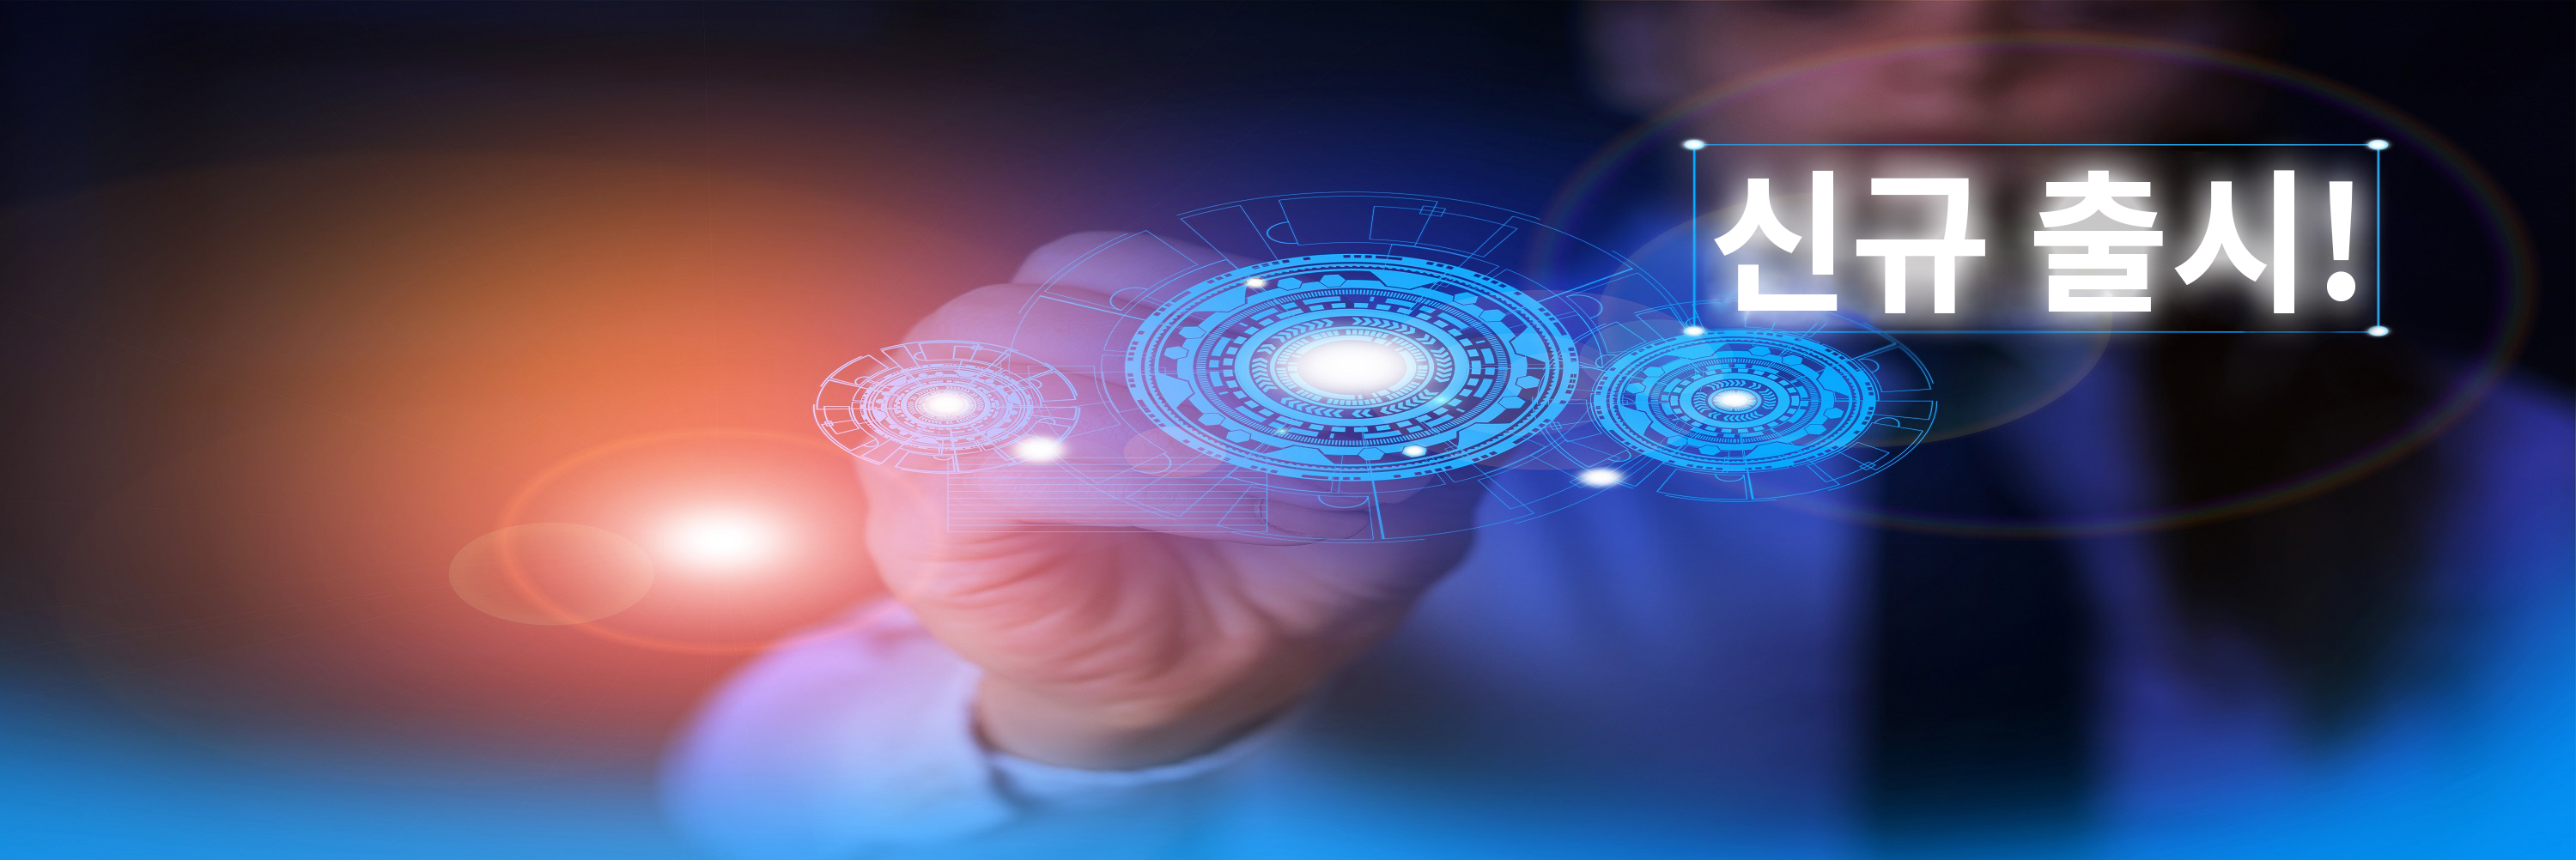
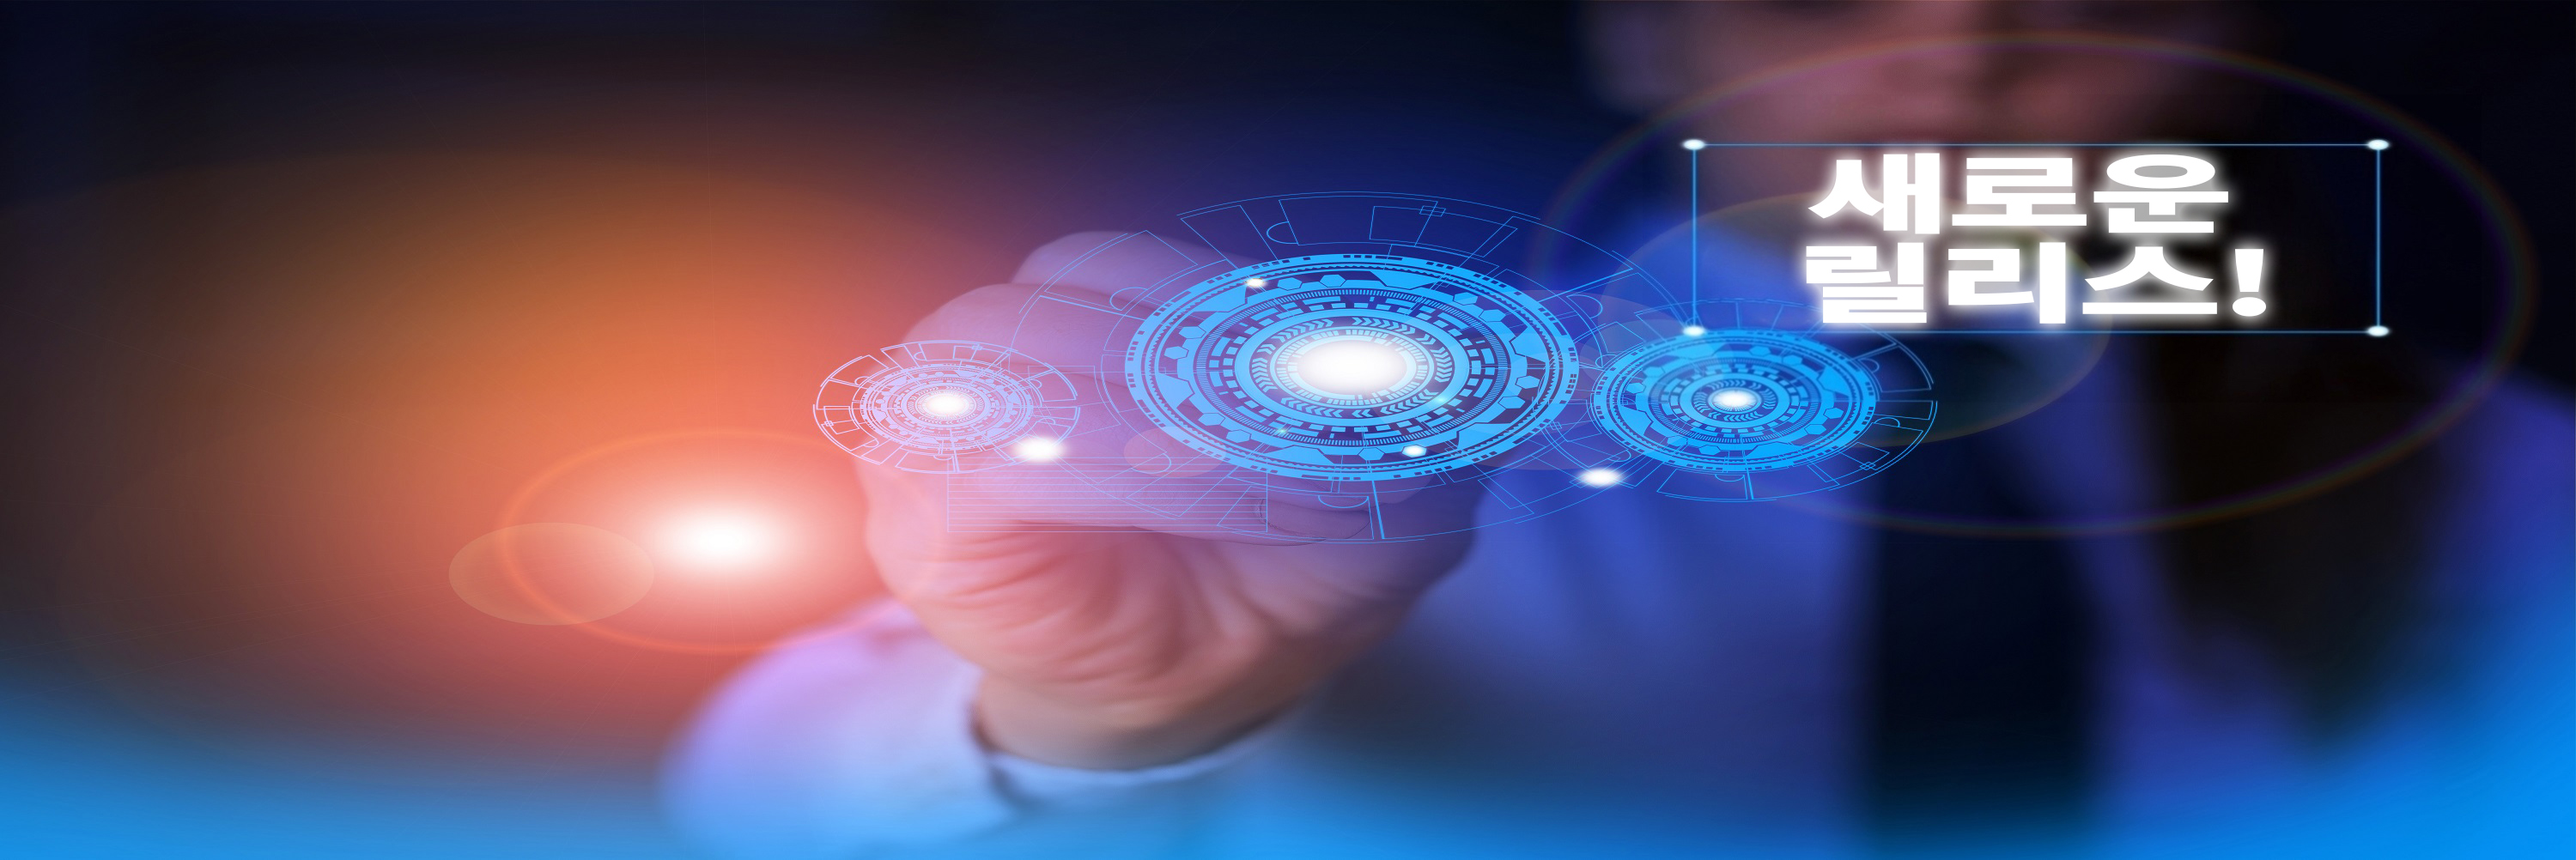
Updated by task 'AUTO_HANDOFF_PRIORITY_1776973054060_ko-KR' Changes for core/source commit https://github.com/Adobe-Enterprise-Docs/experience-manager-release-information.en/commit/14f4875e58028211bfa93dca5157a4e06884ed03

Changed region(s): [[0.62, 0.1547, 0.93, 0.4641]]

diff --git a/help/using/aem-forms-releases.md b/help/using/aem-forms-releases.md
@@ -4,9 +4,9 @@ description: 모든 AEM Forms 릴리스 및 해당 패키지에 대해 알아봅
 contentOwner: khsingh
 exl-id: 65cb9c6b-fb3f-4bf1-aa42-2d724914439a
 source-git-commit: 7ec2156ec3af9cdd9d5176a885a6d3b024703c40
-workflow-type: tm+mt
+workflow-type: ht
 source-wordcount: '15313'
-ht-degree: 94%
+ht-degree: 100%
 
 ---
 
@@ -45,7 +45,7 @@ The following list contains all the AEM [!DNL Forms] add-in packages released un
       <td><strong>빌드 버전</strong></td>
     </tr>
     <tr>
-      <td>2026년 2월 19일 금요일</td>
+      <td>2026년 2월 19일</td>
       <td>
         <a href="https://experienceleague.adobe.com/ko/docs/experience-manager-65-lts/content/release-notes/release-notes">
           AEM 6.5 LTS Forms 서비스 팩 2 
@@ -57,21 +57,21 @@ The following list contains all the AEM [!DNL Forms] add-in packages released un
         </a>
       </td>
       <td>
-        <b style="display:block; margin:10px 0;">JEE 설치 프로그램의 AEM Forms 6.5 LTS SP2</b>
+        <b style="display:block; margin:10px 0;">JEE 설치 관리자의 AEM Forms 6.5 LTS SP2</b>
         <ul>
-          <li><a href="https://experience.adobe.com/#/downloads/content/software-distribution/en/aem.html?pack[...]0327-1-12345/jboss/aemforms_server_6_6_0_jboss_all_win.zip">JBoss EAP 및 Microsoft Windows용 Experience Manager 6.5 LTS SP2 Forms 설치 관리자</a></li>
-          <li><a href="https://experience.adobe.com/#/downloads/content/software-distribution/en/aem.html?pack[...]-1-12345/jboss/aemforms_server_6_6_0_jboss_all_unix.tar.gz">JBoss EAP 및 Linux용 Experience Manager 6.5 LTS SP2 Forms 설치 관리자
+          <li><a href="https://experience.adobe.com/#/downloads/content/software-distribution/en/aem.html?pack[…]0327-1-12345/jboss/aemforms_server_6_6_0_jboss_all_win.zip">JBoss EAP 및 Microsoft Windows용 Experience Manager 6.5 LTS SP2 Forms 설치 관리자</a></li>
+          <li><a href="https://experience.adobe.com/#/downloads/content/software-distribution/en/aem.html?pack[…]-1-12345/jboss/aemforms_server_6_6_0_jboss_all_unix.tar.gz">JBoss EAP 및 Linux용 Experience Manager 6.5 LTS SP2 Forms 설치 관리자
 </a></li>
-<li><a href="https://experience.adobe.com/#/downloads/content/software-distribution/en/aem.html?pack[...]ges/cq650/servicepack/fd/adobe-aemfd-linux-pkg-6.1.206.zip">Linux®용 AEM Forms 6.5 LTS SP2 추가 기능</a></li>
-          <li><a href="https://experience.adobe.com/#/downloads/content/software-distribution/en/aem.html?pack[...]kages/cq650/servicepack/fd/adobe-aemfd-win-pkg-6.1.206.zip">Windows용 AEM Forms 6.5 LTS SP2 추가 기능</a></li>
-          <li><a href="https://experience.adobe.com/#/downloads/content/software-distribution/en/aem.html?pack[...]kages/cq650/servicepack/fd/adobe-aemfd-osx-pkg-6.1.206.zip">macOS X용 AEM Forms 6.5 LTS SP2 추가 기능</a></li>
+<li><a href="https://experience.adobe.com/#/downloads/content/software-distribution/en/aem.html?pack[…]ges/cq650/servicepack/fd/adobe-aemfd-linux-pkg-6.1.206.zip">Linux®용 AEM Forms 6.5 LTS SP2 추가 기능</a></li>
+          <li><a href="https://experience.adobe.com/#/downloads/content/software-distribution/en/aem.html?pack[…]kages/cq650/servicepack/fd/adobe-aemfd-win-pkg-6.1.206.zip">Windows용 AEM Forms 6.5 LTS SP2 추가 기능</a></li>
+          <li><a href="https://experience.adobe.com/#/downloads/content/software-distribution/en/aem.html?pack[…]kages/cq650/servicepack/fd/adobe-aemfd-osx-pkg-6.1.206.zip">macOS X용 AEM Forms 6.5 LTS SP2 추가 기능</a></li>
         </ul>
       </td>
       <td>
       </td>
      </tr>
      <tr>
-      <td>2025년 12월 19일 토요일</td>
+      <td>2025년 12월 19일</td>
       <td>
         <a href="https://experienceleague.adobe.com/ko/docs/experience-manager-65-lts/content/release-notes/release-notes">
           AEM 6.5 LTS Forms 
@@ -83,10 +83,10 @@ The following list contains all the AEM [!DNL Forms] add-in packages released un
         </a>
       </td>
       <td>
-        JEE 설치 관리자의 <b style="display:block; margin:10px 0;">AEM Forms 6.5 LTS</b>
+        <b style="display:block; margin:10px 0;">JEE 설치 관리자의 AEM Forms 6.5 LTS</b>
         <ul>
-          <li><a href="https://experience.adobe.com/#/downloads/content/software-distribution/en/aem.html?pack[...]-2-12345/jboss/aemforms_server_6_6_0_jboss_all_unix.tar.gz">JBoss EAP 및 Linux용 Experience Manager 6.5.1.LTS Forms 설치 관리자</a></li>
-          <li><a href="https://experience.adobe.com/#/downloads/content/software-distribution/en/aem.html?pack[...]1218-2-12345/jboss/aemforms_server_6_6_0_jboss_all_win.zip">JBoss EAP 및 Microsoft Windows용 Experience Manager 6.5.1.LTS Forms 설치 관리자
+          <li><a href="https://experience.adobe.com/#/downloads/content/software-distribution/en/aem.html?pack[…]-2-12345/jboss/aemforms_server_6_6_0_jboss_all_unix.tar.gz">JBoss EAP 및 Linux용 Experience Manager 6.5.1 LTS Forms 설치 관리자</a></li>
+          <li><a href="https://experience.adobe.com/#/downloads/content/software-distribution/en/aem.html?pack[…]1218-2-12345/jboss/aemforms_server_6_6_0_jboss_all_win.zip">JBoss EAP 및 Microsoft Windows용 Experience Manager 6.5.1 LTS Forms 설치 관리자
 </a></li>
         </ul>
       </td>
@@ -204,7 +204,7 @@ The following list contains all the AEM [!DNL Forms] add-in packages released un
         </ul>
       </td>
       <td>
-        <p>AEM Forms OSGI 패치 설치 관리자: 6.0.1452<br/><p>AEM Forms JEE 패치 설치 프로그램: 6-5-0-0115 <br/><p>AEM Forms 호환성 패키지: 6.0.1448 <br/></p></td>
+        <p>AEM Forms OSGI 패치 설치 관리자: 6.0.1452<br/><p>AEM Forms JEE 패치 설치 관리자: 6-5-0-0115 <br/><p>AEM Forms 호환성 패키지: 6.0.1448 <br/></p></td>
     </tr>
     <tr>
       <td>2025년 6월 6일</td>
@@ -1031,7 +1031,7 @@ The following list contains all the AEM [!DNL Forms] add-in packages released un
   </tbody>
  </table>
 
-`[1]` Workbench, Rights Management SDK, PPL(Portable Protection Library) 및 향상된 PPL의 설치 관리자를 받으려면 [Adobe 지원 센터](https://experienceleague.adobe.com/ko?support-solution=General&support-tab=home#support)에 문의하십시오.
+`[1]` Workbench, Rights Management SDK, PPL(Portable Protection Library) 및 향상된 PPL의 설치 관리자를 받으려면 [Adobe 지원 센터](https://experienceleague.adobe.com/?support-solution=General&support-tab=home#support)에 문의하십시오.
 
 `[2]` macOS X용 AEM [!DNL Forms] 추가 기능 패키지는 프로덕션 환경에서 지원되지 않으므로 데모용으로만 사용해야 합니다. macOS X 패키지에서는 PDF Generator 기능을 사용할 수 없습니다.
 

diff --git a/help/using/aem-previous-versions.md b/help/using/aem-previous-versions.md
@@ -4,9 +4,9 @@ description: 이전 버전의 Adobe Experience Manager, CQ 및 CRX에 대한 설
 recommendations: noCatalog
 exl-id: c210eadb-58ec-4d40-ba72-5e4b11564510
 source-git-commit: 21b1429ca747fdef9a2d1ffe441c86d07ae281c7
-workflow-type: tm+mt
-source-wordcount: '579'
-ht-degree: 96%
+workflow-type: ht
+source-wordcount: '964'
+ht-degree: 100%
 
 ---
 
@@ -37,8 +37,8 @@ ht-degree: 96%
 
 유효한 Adobe ID가 필요합니다.
 
-* Adobe ID가 없는 경우, https://www.adobe.com/kr/ 에서 만들 수 있습니다.
-Adobe ID를 만들거나 관리하는 데 도움이 필요한 경우 [이 안내서를 참조하십시오](https://helpx.adobe.com/kr/manage-account.html).
+* Adobe ID가 없는 경우, https://www.adobe.com/kr/에서 만들 수 있습니다.
+Adobe ID를 만들거나 관리하는 데 도움이 필요한 경우 [이 안내서](https://helpx.adobe.com/kr/manage-account.html)를 참조하십시오.
 
 | [!DNL Experience Manager] 버전 | 소프트웨어 배포 링크 |
 |:-----------:|:--------------------------------------------------:|
@@ -95,8 +95,8 @@ Adobe ID를 만들거나 관리하는 데 도움이 필요한 경우 [이 안내
 
 1. 확인 대화 상자에서 **[!UICONTROL 설치]**&#x200B;를 다시 선택합니다. 설치하는 데 몇 분 정도 소요됩니다.
 
-1. 웹 브라우저에서 문서 페이지를 실행하십시오. AEM 5.6.1 예를 사용하면 URL은 http://localhost:4502/libs/aem-docs/content/en/cq/5-6-1.html이 됩니다.
+1. 웹 브라우저에서 문서 페이지를 실행하십시오. AEM 5.6.1 사용 예, http://localhost:4502/libs/aem-docs/content/en/cq/5-6-1.html.
 
 ## [!DNL Experience Manager] 커뮤니티에서 도움 받기 {#get-help-from-aem-community}
 
-Experience Manager 사용에 대한 질문이 있는 경우 Adobe는 [&#x200B; [!DNL Experience Manager] 포럼](https://experienceleaguecommunities.adobe.com/t5/adobe-experience-manager/ct-p/adobe-experience-manager-community?profile.language=ko)에서 경험이 풍부한 커뮤니티 전문가에게 문의해 보실 것을 권장합니다.
+Experience Manager 사용에 대한 질문이 있는 경우 Adobe는 [ [!DNL Experience Manager] 포럼](https://experienceleaguecommunities.adobe.com/t5/adobe-experience-manager/ct-p/adobe-experience-manager-community)에서 경험이 풍부한 커뮤니티 전문가에게 문의해 보실 것을 권장합니다.

diff --git a/help/using/aem-releases-updates.md b/help/using/aem-releases-updates.md
@@ -3,9 +3,9 @@ title: '[!DNL Adobe Experience Manager] 릴리스 업데이트'
 description: '[!DNL Adobe Experience Manager] 릴리스 업데이트'
 exl-id: 103e1c40-364e-450d-92d3-6b952e33d47c
 source-git-commit: 9e7e72d7c0a7126828028b04319f20b64d72e517
-workflow-type: tm+mt
-source-wordcount: '0'
-ht-degree: 0%
+workflow-type: ht
+source-wordcount: '271'
+ht-degree: 100%
 
 ---
 
@@ -21,7 +21,7 @@ ht-degree: 0%
 
 [!DNL Experience Manager] as a[!DNL Cloud Service]는 일반적으로 새로운 기능에 대한 월간 릴리스 케이던스를 대상으로 합니다.
 
-현재/최신 버전에 대한 세부 정보는 [&#x200B; [!DNL Experience Manager] as a [!DNL Cloud Service]의 현재 릴리스 정보](https://experienceleague.adobe.com/ko/docs/experience-manager-cloud-service/content/release-notes/release-notes/release-notes-current)를 참조하십시오. 여기에서 이전 버전(연대순으로 정렬됨)의 세부 정보를 찾아볼 수도 있습니다.
+현재/최신 버전에 대한 세부 정보는 [ [!DNL Experience Manager] as a [!DNL Cloud Service]의 현재 릴리스 정보](https://experienceleague.adobe.com/ko/docs/experience-manager-cloud-service/content/release-notes/release-notes/release-notes-current)를 참조하십시오. 여기에서 이전 버전(연대순으로 정렬됨)의 세부 정보를 찾아볼 수도 있습니다.
 
 ## [!DNL Experience Manager] On-Premise 및 Managed Services {#aem-on-prem-managed-services}
 
@@ -29,13 +29,13 @@ ht-degree: 0%
 
 ### [!DNL Experience Manager] 6.5 {#aem-65}
 
-[!DNL Experience Manager] 6.5 제품 업데이트는 서비스 팩을 통해 제공되며 새로운 기능, 개선 사항 및 버그 수정 사항이 포함되어 있습니다.
+[!DNL Experience Manager] 6.5 제품 업데이트는 서비스 팩을 통해 제공되며 새로운 기능, 개선 사항 및 버그 수정이 포함됩니다.
 
 현재/최신 버전에 대한 자세한 내용은 [[!DNL Experience Manager] 6.5 최신 기능 팩](https://experienceleague.adobe.com/ko/docs/experience-manager-65/content/release-notes/release-notes)을 참조하십시오. 여기에서 이전 버전(연대순으로 정렬됨)의 세부 정보를 찾아볼 수도 있습니다.
 
 ### [!DNL Experience Manager] 6.5 LTS {#aem-65-lts}
 
-[!DNL Experience Manager] 6.5 LTS 제품 업데이트는 서비스 팩을 통해 제공되며 새로운 기능, 개선 사항 및 버그 수정 사항이 포함되어 있습니다.
+[!DNL Experience Manager] 6.5 LTS 제품 업데이트는 서비스 팩을 통해 제공되며 새로운 기능, 개선 사항 및 버그 수정이 포함됩니다.
 
 현재/최신 버전에 대한 자세한 내용은 [[!DNL Experience Manager] 6.5 LTS 최신 기능 팩](https://experienceleague.adobe.com/ko/docs/experience-manager-65-lts/content/release-notes/release-notes)을 참조하십시오.
 

diff --git a/help/using/update-release-vehicle-definitions.md b/help/using/update-release-vehicle-definitions.md
@@ -5,7 +5,7 @@ contentOwner: AK
 exl-id: 936b8136-9edb-4e11-9c29-f0c3108c35bd
 source-git-commit: 10cbece451b46e8d4dbf473d728a20994a5e42cd
 workflow-type: ht
-source-wordcount: '740'
+source-wordcount: '743'
 ht-degree: 100%
 
 ---